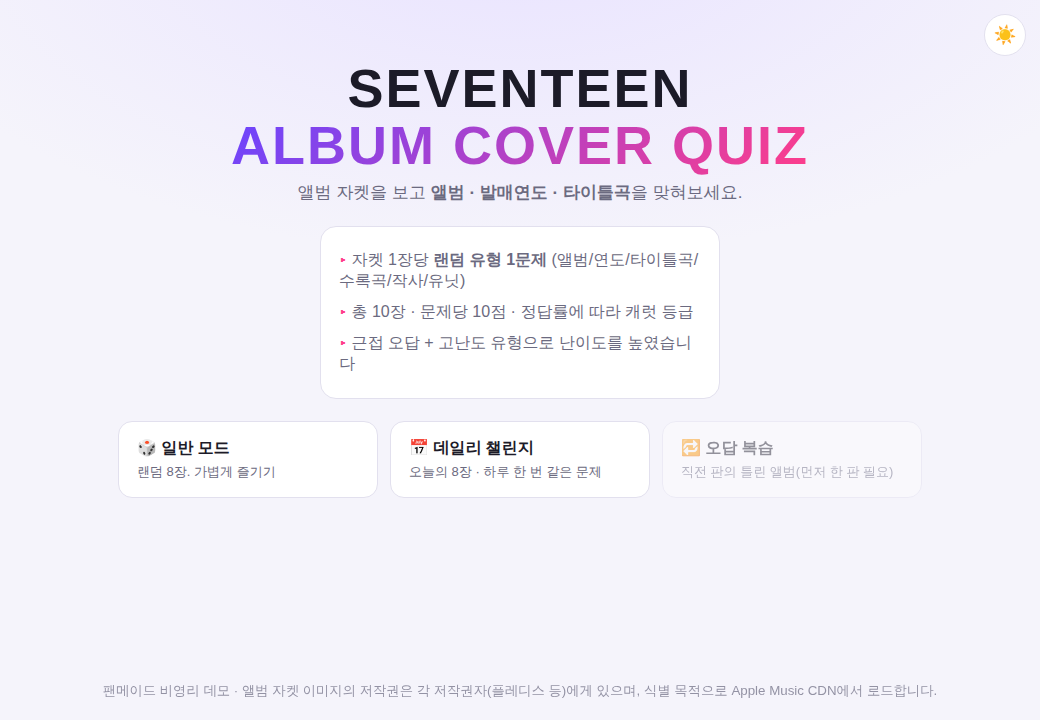
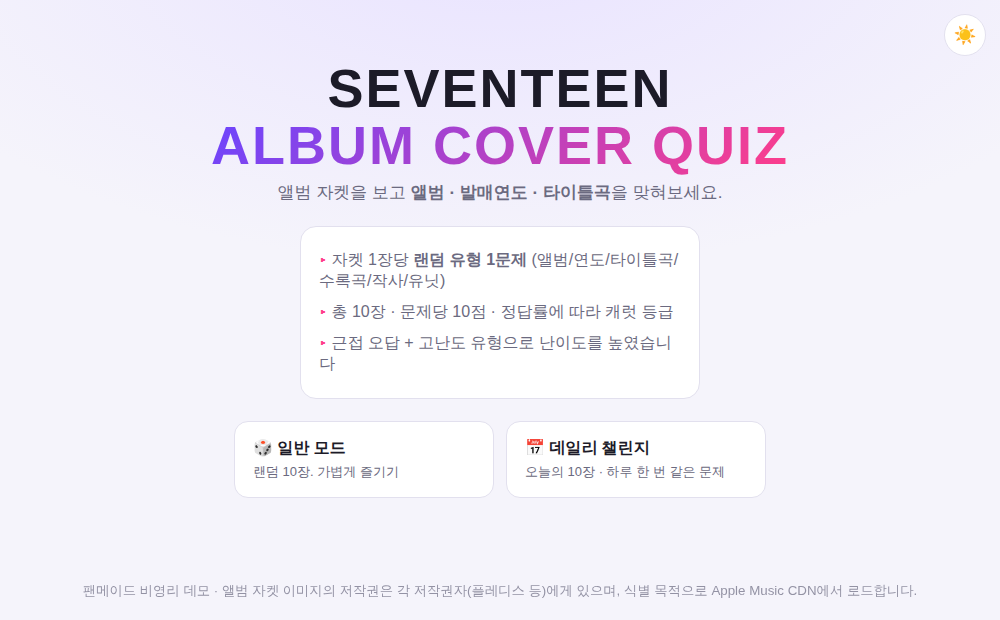
Fix wrong cover matches; remove wrong-answer review mode
Wrong covers (reported): solo/unit releases with generic titles pulled the
wrong artist's album art (Vernon → "Nicholas Vernon", Bittersweet → a Kamen
Rider OST). Fix:
- Strict artist matching (exact or prefix only; no substring) so "Vernon"
  never matches "Nicholas Vernon"
- Require stronger title match (threshold 0.6) + bigger year bonus; return
  null (→ placeholder) instead of showing a wrong cover
- Solo/unit searches add a "SEVENTEEN" context term to surface the right release
- Same strict logic mirrored in scripts/fetch-art.mjs

Removed 오답 복습 (wrong-answer review) mode per user request: start/result
buttons, mode logic, related DOM/state, and its E2E test.

Tests: 19 unit + 4 E2E passing.

Claude-Session: https://claude.ai/code/session_01Yarvu5zmwSrtuFErtwGDjg

diff --git a/js/game.js b/js/game.js
@@ -49,11 +49,11 @@
   function cacheDom() {
     [
       "screen-start", "screen-play", "screen-result",
-      "btn-restart", "btn-next", "btn-share", "btn-tweet", "btn-review",
+      "btn-restart", "btn-next", "btn-share", "btn-tweet",
       "card-art", "card-caption", "btn-reload", "progress", "score", "hud-mode",
       "question", "question-note", "feedback",
       "result-score", "result-detail", "result-canvas",
-      "theme-toggle", "mode-review", "review-sub", "daily-sub",
+      "theme-toggle", "daily-sub",
     ].forEach((id) => (el[id] = document.getElementById(id)));
   }
   function show(screen) {
@@ -90,12 +90,6 @@
     if (mode === "daily") {
       state.rng = mulberry32(hashStr("svt-daily-" + todayKey()));
       state.deck = shuffle(ALBUMS, state.rng).slice(0, Math.min(CONFIG.rounds, ALBUMS.length));
-    } else if (mode === "review") {
-      const ids = store.get(LS.wrong, []);
-      const albums = ids.map((id) => albumById[id]).filter(Boolean);
-      if (!albums.length) return; // 방어(버튼 비활성 상태여야 함)
-      state.rng = Math.random;
-      state.deck = shuffle(albums, state.rng).slice(0, CONFIG.rounds);
     } else {
       state.rng = Math.random;
       state.deck = shuffle(ALBUMS, state.rng).slice(0, Math.min(CONFIG.rounds, ALBUMS.length));
@@ -256,11 +250,6 @@
     el["result-score"].textContent = T.result.score(state.score, st.max);
     el["result-detail"].innerHTML = T.result.detail(st.tier, st.pct, st.hits, st.total);
 
-    // 오답 앨범 저장(복습용): 틀린 카드
-    const wrongIds = state.answers.filter((a) => !a.correct).map((a) => a.albumId);
-    store.set(LS.wrong, wrongIds);
-    el["btn-review"].hidden = wrongIds.length === 0;
-
     // 데일리 기록 + 스트릭
     if (state.mode === "daily") updateDaily(st.pct);
 
@@ -336,11 +325,8 @@
     a.remove();
   }
 
-  // ── 시작화면 상태 갱신(복습 가능 여부, 데일리 완료 표시) ──
+  // ── 시작화면 상태 갱신(데일리 완료 표시) ──
   function refreshStart() {
-    const wrong = store.get(LS.wrong, []);
-    el["mode-review"].disabled = wrong.length === 0;
-    el["review-sub"].textContent = wrong.length ? T.start.reviewReady(wrong.length) : T.start.reviewEmpty;
     const daily = store.get(LS.daily, null);
     const streak = store.get(LS.streak, { count: 0 });
     if (daily && daily.date === todayKey()) el["daily-sub"].textContent = T.start.dailyDone(daily.pct, streak.count);
@@ -357,7 +343,6 @@
     el["btn-restart"].addEventListener("click", () => { refreshStart(); show("screen-start"); });
     el["btn-share"].addEventListener("click", downloadShare);
     el["btn-tweet"].addEventListener("click", tweetShare);
-    el["btn-review"].addEventListener("click", () => startMode("review"));
     el["btn-reload"].addEventListener("click", reloadArt);
     refreshStart();
     show("screen-start");

diff --git a/js/artlive.js b/js/artlive.js
@@ -41,20 +41,24 @@
     });
   }
 
+  // 아티스트 정확 매칭(오매칭 방지). "vernon"이 "nicholas vernon"에 붙지 않도록
+  // 부분포함(includes)은 쓰지 않고, 정확일치 또는 접두(예: "wonwoo, mingyu")만 허용.
+  function artistOk(resultArtist, albumArtist) {
+    const a = norm(resultArtist), b = norm(albumArtist);
+    return a === b || a.startsWith(b);
+  }
+
   function pickBest(album, results) {
-    const artist = norm(album.artist || "SEVENTEEN");
-    const byArtist = results.filter((r) => {
-      const a = norm(r.artistName || "");
-      return a === artist || a.includes(artist) || artist.includes(a);
-    });
-    const pool = byArtist.length ? byArtist : results;
+    const artist = album.artist || "SEVENTEEN";
+    const byArtist = results.filter((r) => artistOk(r.artistName || "", artist));
+    if (!byArtist.length) return null; // 아티스트 일치 없으면 매칭 실패(placeholder)
     let best = null, bestScore = 0;
-    for (const r of pool) {
+    for (const r of byArtist) {
       let score = similarity(album.title, r.collectionName || "");
-      if ((r.releaseDate || "").slice(0, 4) === String(album.year)) score += 0.25;
+      if ((r.releaseDate || "").slice(0, 4) === String(album.year)) score += 0.3;
       if (score > bestScore) { bestScore = score; best = r; }
     }
-    return bestScore >= 0.45 && best ? best : null;
+    return bestScore >= 0.6 && best ? best : null; // 임계값 상향(오매칭 방지)
   }
 
   function searchUrl(term) {
@@ -77,6 +81,8 @@
     const terms = [];
     if (album.itunes) terms.push(artist + " " + album.itunes);
     terms.push(artist + " " + album.title);
+    // 솔로/유닛은 'SEVENTEEN' 문맥을 더해 정확한 릴리스 노출 확률↑(결과 필터는 엄격 유지)
+    if (artist !== "SEVENTEEN") terms.push("SEVENTEEN " + artist + " " + (album.itunes || album.title));
     for (const term of terms) {
       const results = await fetchResults(term);
       if (results) { const m = pickBest(album, results); if (m) return hi(m.artworkUrl100); }

diff --git a/index.html b/index.html
@@ -58,10 +58,6 @@
               <b>📅 데일리 챌린지</b>
               <small id="daily-sub">오늘의 10장 · 하루 한 번 같은 문제</small>
             </button>
-            <button class="mode-btn" data-mode="review" id="mode-review" disabled>
-              <b>🔁 오답 복습</b>
-              <small id="review-sub">직전 판의 틀린 앨범 다시 풀기</small>
-            </button>
           </div>
         </div>
       </section>
@@ -103,7 +99,6 @@
             <button id="btn-restart" class="btn primary">다시 하기</button>
             <button id="btn-share" class="btn ghost">🖼 결과 이미지 저장</button>
             <button id="btn-tweet" class="btn ghost">🐦 트위터로 공유</button>
-            <button id="btn-review" class="btn ghost" hidden>🔁 오답 복습</button>
           </div>
           <p class="share-hint">트위터 공유 시 결과 이미지가 자동 저장돼요 — 트윗 작성창에 첨부하세요.</p>
           <canvas id="result-canvas" width="1200" height="630"></canvas>

diff --git a/CHANGELOG.md b/CHANGELOG.md
@@ -3,6 +3,13 @@
 이 프로젝트의 주요 변화를 버전별로 정리합니다. 상세 작업 로그는
 [PROGRESS.md](PROGRESS.md), 개선 분석은 [ANALYSIS.md](ANALYSIS.md) 참고.
 
+## v0.4.3 — 자켓 오매칭 수정 · 오답 복습 제거
+- 🖼 **자켓 오매칭 버그 수정**: 솔로/유닛 릴리스(제목이 흔함)가 남의 앨범 커버를
+  불러오던 문제(예: Vernon→"Nicholas Vernon", Bittersweet→가면라이더 OST). 아티스트
+  **정확 매칭**(부분포함 금지) + 제목 강일치(임계 0.6)로 바꿔, 틀린 이미지 대신 플레이스홀더 표시.
+  솔로/유닛은 'SEVENTEEN' 문맥을 더한 검색어로 정확 릴리스 노출 확률↑.
+- 🗑 **오답 복습 모드 제거**(사용자 요청).
+
 ## v0.4.2 — 릴리스 확장(스페셜/유닛/믹스테이프/싱글) + 버그픽스
 - 앨범 20 → **27개** 추가(모두 웹 검증):
   - 스페셜: Director's Cut(2018, 고맙다/THANKS)

diff --git a/README.md b/README.md
@@ -85,7 +85,6 @@ npm run serve
 |---|---|
 | 🎲 **일반** | 랜덤 10장 |
 | 📅 **데일리 챌린지** | 날짜 시드 기반 — 하루 종일 같은 문제(결정론적) + 연속 참여 🔥스트릭 |
-| 🔁 **오답 복습** | 직전 판에서 틀린 앨범만 다시 출제 |
 
 기타: 🌙/☀ **라이트·다크 테마**(선택 저장) · 🖼 **결과 공유 카드**(PNG 저장 / 트위터 공유)
 
@@ -123,7 +122,7 @@ js/
 scripts/fetch-art.mjs # iTunes 아트워크 수집기(+수동 오버라이드 맵)
 tests/
   quiz.test.mjs       # 순수 로직·문제 엔진·데이터 무결성 단위 테스트
-  e2e.test.mjs        # Playwright E2E (모드·완주·공유·복습)
+  e2e.test.mjs        # Playwright E2E (모드·완주·공유·트위터)
 docs/                 # 설명 문서 + 스크린샷
 ```
 
